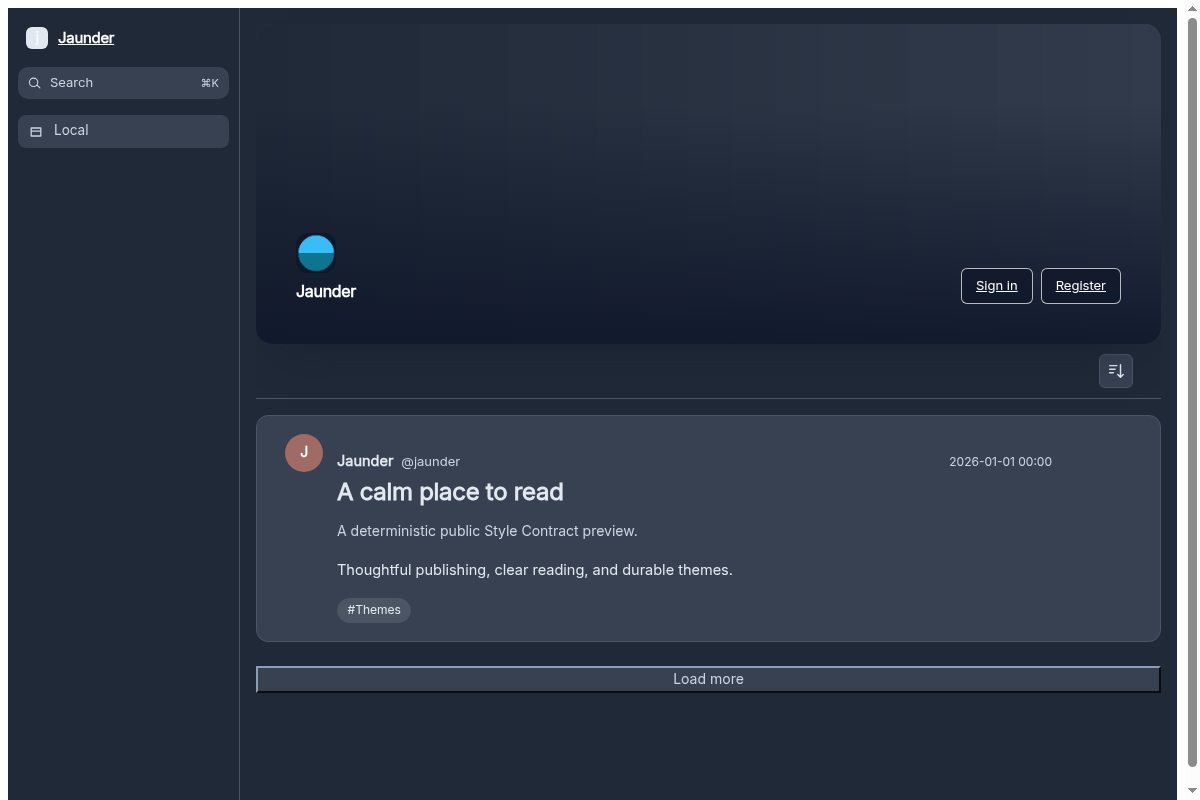
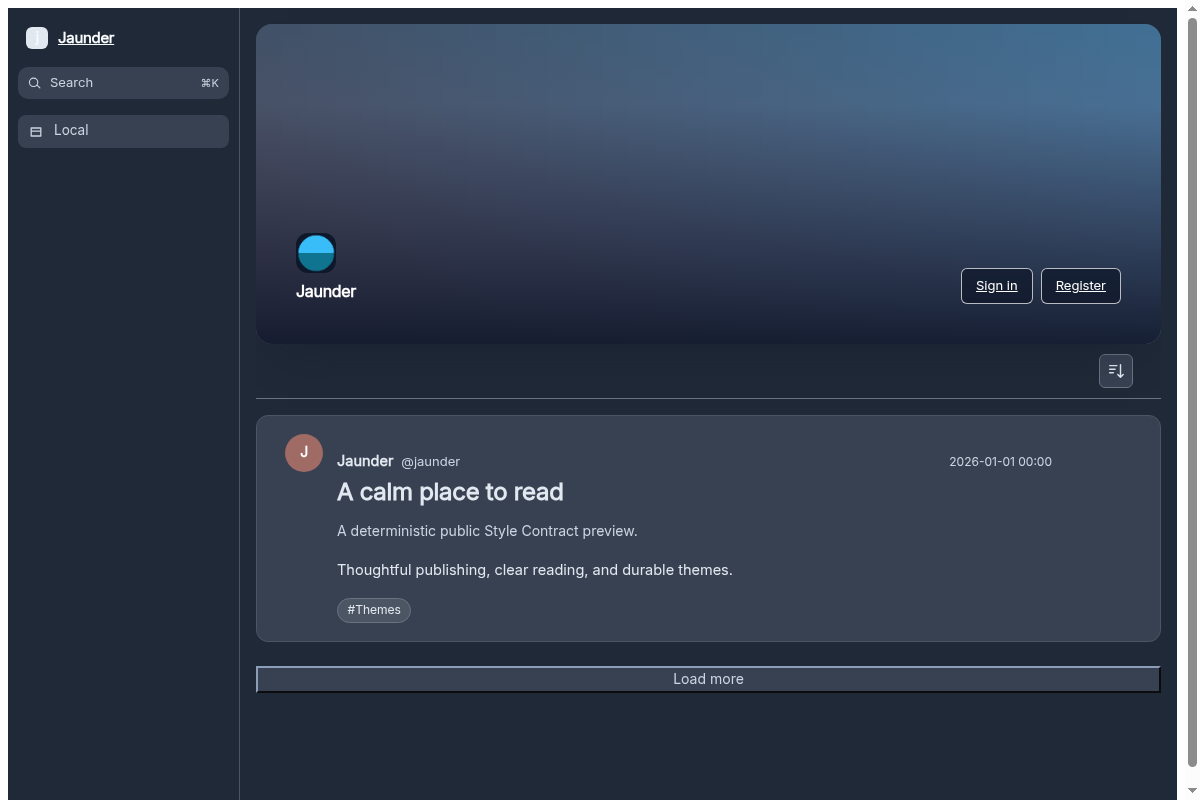
Keep dark divider contrast in gray palette

Changed region(s): [[0.2158, 0.0312, 0.9867, 0.3438]]

diff --git a/style.css b/style.css
@@ -1,1 +1,1 @@
-@font-face{font-family:Tailwind Theme Inter;src:url(assets/inter-latin-regular.woff2)format("woff2");font-weight:400;font-style:normal;font-display:swap}:root{color:#1e293b;background:#f8fafc;min-height:100%;font-family:Tailwind Theme Inter,ui-sans-serif,system-ui,sans-serif}[data-jaunder-part=author-handle]{color:#475569}[data-jaunder-part=author-name]{font-weight:600}[data-jaunder-part=avatar]{border-radius:9999px}[data-jaunder-part=continuation]{color:#334155;background:#e2e8f0;border-color:#cbd5e1}[data-jaunder-part=continuation]:hover{background:#cbd5e1;border-color:#94a3b8}[data-jaunder-part=continuation]:focus-visible{outline-offset:3px;outline:3px solid #3b82f6}[data-jaunder-part=header-image]{z-index:0;object-fit:cover;width:100%;height:100%;margin:0;position:absolute;inset:0}[data-jaunder-part=hero]{isolation:isolate;background:#374151;border-radius:1rem;min-height:clamp(14rem,30vw,20rem);display:flex;position:relative;overflow:hidden;box-shadow:0 1.5rem 3rem -2rem #0f172a99}[data-jaunder-part=logo]{border-radius:.75rem;width:2.5rem;height:2.5rem}[data-jaunder-part=main],[data-jaunder-part=main] *{font-family:Tailwind Theme Inter,ui-sans-serif,system-ui,sans-serif}[data-jaunder-part=main]{width:min(64rem,100% - 2rem);margin-inline:auto;padding-block:1rem 3rem}[data-jaunder-part=masthead]{z-index:1;width:100%;min-height:inherit;color:#fff;box-shadow:none;background:linear-gradient(#0f172a1a 25%,#0f172aeb);border:0;border-radius:0;align-items:flex-end;margin:0;padding:clamp(1rem,4vw,2.5rem);position:relative}[data-jaunder-part=masthead] *{color:inherit}[data-jaunder-part=masthead] a{background:#0f172ab8;border-color:#ffffffb3}[data-jaunder-part=masthead] :focus-visible{outline-offset:3px;outline:3px solid #3b82f6}[data-jaunder-part=navigation-rail],[data-jaunder-part=navigation-rail] *{font-family:Tailwind Theme Inter,ui-sans-serif,system-ui,sans-serif}[data-jaunder-part=navigation-rail]{color:#334155;background:#f8fafc;border-color:#cbd5e1}[data-jaunder-part=navigation-rail] *{color:inherit}[data-jaunder-part=navigation-search]{background:#e2e8f0;border-color:#cbd5e1}[data-jaunder-part=post]{overflow-wrap:anywhere;background:#fff;border:1px solid #cbd5e1;border-radius:.75rem;min-width:0;box-shadow:0 1px 3px #0f172a1a}[data-jaunder-part=post] a{color:#1e293b;text-decoration:none}[data-jaunder-part=post] a:hover{color:#0f172a}[data-jaunder-part=post] :focus-visible{outline-offset:3px;outline:3px solid #3b82f6}[data-jaunder-part=post-body]{line-height:1.75}[data-jaunder-part=post-body] a{text-underline-offset:.15em;text-decoration-line:underline;text-decoration-thickness:.125em}[data-jaunder-part=post-list]{gap:1.5rem;padding-block:1rem;display:grid}[data-jaunder-part=post-summary]{color:#334155}[data-jaunder-part=post-title]{overflow-wrap:anywhere;font-size:1.5rem;font-weight:700;line-height:1.25}[data-jaunder-part=primary-navigation]{width:auto;margin:0;padding:0}[data-jaunder-part=primary-navigation] a{color:#334155;border-radius:.5rem;text-decoration:none}[data-jaunder-part=primary-navigation] a:hover{color:#0f172a;background:#e2e8f0}[data-jaunder-part=primary-navigation] :focus-visible{outline-offset:3px;outline:3px solid #3b82f6}[data-jaunder-part=published-time]{color:#475569}[data-jaunder-part=site-brand]{color:#0f172a}[data-jaunder-part=site-title]{letter-spacing:-.025em;font-weight:700}[data-jaunder-part=source-attribution]{color:#475569}[data-jaunder-part=tag]{background:#e2e8f0;border-radius:9999px;padding:.2rem .6rem}[data-jaunder-part=tag-list]{flex-wrap:wrap;gap:.5rem;display:flex}[data-jaunder-part=tag-list] a{color:#334155;text-decoration:none}[data-jaunder-part=tag-list] a:hover{color:#1e293b}[data-jaunder-part=tag-list] :focus-visible{outline-offset:3px;outline:3px solid #3b82f6}@media (max-width:44rem){[data-jaunder-part=hero]{border-radius:.75rem;min-height:13rem}[data-jaunder-part=main]{width:min(100% - 1rem,64rem);padding-block:.5rem 2rem}[data-jaunder-part=masthead]{align-items:flex-end;gap:.75rem}}@media (prefers-reduced-motion:reduce){:root{scroll-behavior:auto}[data-jaunder-part=masthead] *,[data-jaunder-part=post] *{transition-duration:.01ms;animation-duration:.01ms;animation-iteration-count:1}}@media (prefers-color-scheme:dark){:root{--ink:#e2e8f0;--line:#4b5563;--surface-alt:#374151;color:#e2e8f0;background:#1f2937}[data-jaunder-part=author-handle]{color:#cbd5e1}[data-jaunder-part=continuation]{color:#cbd5e1;background:#374151;border-color:#4b5563}[data-jaunder-part=continuation]:hover{background:#4b5563;border-color:#6b7280}[data-jaunder-part=continuation]:focus-visible,[data-jaunder-part=masthead] :focus-visible{outline-color:#bfdbfe}[data-jaunder-part=navigation-rail]{color:#cbd5e1;background:#1f2937;border-color:#4b5563}[data-jaunder-part=navigation-search]{background:#374151;border-color:#4b5563}[data-jaunder-part=post]{box-shadow:none;background:#374151;border-color:#4b5563}[data-jaunder-part=post] a{color:#e2e8f0}[data-jaunder-part=post] a:hover{color:#fff}[data-jaunder-part=post] :focus-visible{outline-color:#bfdbfe}[data-jaunder-part=post-summary],[data-jaunder-part=primary-navigation] a{color:#cbd5e1}[data-jaunder-part=primary-navigation] a:hover{color:#fff;background:#374151}[data-jaunder-part=primary-navigation] :focus-visible{outline-color:#bfdbfe}[data-jaunder-part=published-time]{color:#cbd5e1}[data-jaunder-part=site-brand]{color:#f8fafc}[data-jaunder-part=source-attribution]{color:#cbd5e1}[data-jaunder-part=tag]{background:#4b5563}[data-jaunder-part=tag-list] a{color:#e2e8f0}[data-jaunder-part=tag-list] a:hover{color:#fff}[data-jaunder-part=tag-list] :focus-visible{outline-color:#bfdbfe}}
+@font-face{font-family:Tailwind Theme Inter;src:url(assets/inter-latin-regular.woff2)format("woff2");font-weight:400;font-style:normal;font-display:swap}:root{color:#1e293b;background:#f8fafc;min-height:100%;font-family:Tailwind Theme Inter,ui-sans-serif,system-ui,sans-serif}[data-jaunder-part=author-handle]{color:#475569}[data-jaunder-part=author-name]{font-weight:600}[data-jaunder-part=avatar]{border-radius:9999px}[data-jaunder-part=continuation]{color:#334155;background:#e2e8f0;border-color:#cbd5e1}[data-jaunder-part=continuation]:hover{background:#cbd5e1;border-color:#94a3b8}[data-jaunder-part=continuation]:focus-visible{outline-offset:3px;outline:3px solid #3b82f6}[data-jaunder-part=header-image]{z-index:0;object-fit:cover;width:100%;height:100%;margin:0;position:absolute;inset:0}[data-jaunder-part=hero]{isolation:isolate;background:#374151;border-radius:1rem;min-height:clamp(14rem,30vw,20rem);display:flex;position:relative;overflow:hidden;box-shadow:0 1.5rem 3rem -2rem #0f172a99}[data-jaunder-part=logo]{border-radius:.75rem;width:2.5rem;height:2.5rem}[data-jaunder-part=main],[data-jaunder-part=main] *{font-family:Tailwind Theme Inter,ui-sans-serif,system-ui,sans-serif}[data-jaunder-part=main]{width:min(64rem,100% - 2rem);margin-inline:auto;padding-block:1rem 3rem}[data-jaunder-part=masthead]{z-index:1;width:100%;min-height:inherit;color:#fff;box-shadow:none;background:linear-gradient(#0f172a1a 25%,#0f172aeb);border:0;border-radius:0;align-items:flex-end;margin:0;padding:clamp(1rem,4vw,2.5rem);position:relative}[data-jaunder-part=masthead] *{color:inherit}[data-jaunder-part=masthead] a{background:#0f172ab8;border-color:#ffffffb3}[data-jaunder-part=masthead] :focus-visible{outline-offset:3px;outline:3px solid #3b82f6}[data-jaunder-part=navigation-rail],[data-jaunder-part=navigation-rail] *{font-family:Tailwind Theme Inter,ui-sans-serif,system-ui,sans-serif}[data-jaunder-part=navigation-rail]{color:#334155;background:#f8fafc;border-color:#cbd5e1}[data-jaunder-part=navigation-rail] *{color:inherit}[data-jaunder-part=navigation-search]{background:#e2e8f0;border-color:#cbd5e1}[data-jaunder-part=post]{overflow-wrap:anywhere;background:#fff;border:1px solid #cbd5e1;border-radius:.75rem;min-width:0;box-shadow:0 1px 3px #0f172a1a}[data-jaunder-part=post] a{color:#1e293b;text-decoration:none}[data-jaunder-part=post] a:hover{color:#0f172a}[data-jaunder-part=post] :focus-visible{outline-offset:3px;outline:3px solid #3b82f6}[data-jaunder-part=post-body]{line-height:1.75}[data-jaunder-part=post-body] a{text-underline-offset:.15em;text-decoration-line:underline;text-decoration-thickness:.125em}[data-jaunder-part=post-list]{gap:1.5rem;padding-block:1rem;display:grid}[data-jaunder-part=post-summary]{color:#334155}[data-jaunder-part=post-title]{overflow-wrap:anywhere;font-size:1.5rem;font-weight:700;line-height:1.25}[data-jaunder-part=primary-navigation]{width:auto;margin:0;padding:0}[data-jaunder-part=primary-navigation] a{color:#334155;border-radius:.5rem;text-decoration:none}[data-jaunder-part=primary-navigation] a:hover{color:#0f172a;background:#e2e8f0}[data-jaunder-part=primary-navigation] :focus-visible{outline-offset:3px;outline:3px solid #3b82f6}[data-jaunder-part=published-time]{color:#475569}[data-jaunder-part=site-brand]{color:#0f172a}[data-jaunder-part=site-title]{letter-spacing:-.025em;font-weight:700}[data-jaunder-part=source-attribution]{color:#475569}[data-jaunder-part=tag]{background:#e2e8f0;border-radius:9999px;padding:.2rem .6rem}[data-jaunder-part=tag-list]{flex-wrap:wrap;gap:.5rem;display:flex}[data-jaunder-part=tag-list] a{color:#334155;text-decoration:none}[data-jaunder-part=tag-list] a:hover{color:#1e293b}[data-jaunder-part=tag-list] :focus-visible{outline-offset:3px;outline:3px solid #3b82f6}@media (max-width:44rem){[data-jaunder-part=hero]{border-radius:.75rem;min-height:13rem}[data-jaunder-part=main]{width:min(100% - 1rem,64rem);padding-block:.5rem 2rem}[data-jaunder-part=masthead]{align-items:flex-end;gap:.75rem}}@media (prefers-reduced-motion:reduce){:root{scroll-behavior:auto}[data-jaunder-part=masthead] *,[data-jaunder-part=post] *{transition-duration:.01ms;animation-duration:.01ms;animation-iteration-count:1}}@media (prefers-color-scheme:dark){:root{--ink:#e2e8f0;--line:#6b7280;--surface-alt:#374151;color:#e2e8f0;background:#1f2937}[data-jaunder-part=author-handle]{color:#cbd5e1}[data-jaunder-part=continuation]{color:#cbd5e1;background:#374151;border-color:#4b5563}[data-jaunder-part=continuation]:hover{background:#4b5563;border-color:#6b7280}[data-jaunder-part=continuation]:focus-visible,[data-jaunder-part=masthead] :focus-visible{outline-color:#bfdbfe}[data-jaunder-part=navigation-rail]{color:#cbd5e1;background:#1f2937;border-color:#4b5563}[data-jaunder-part=navigation-search]{background:#374151;border-color:#4b5563}[data-jaunder-part=post]{box-shadow:none;background:#374151;border-color:#4b5563}[data-jaunder-part=post] a{color:#e2e8f0}[data-jaunder-part=post] a:hover{color:#fff}[data-jaunder-part=post] :focus-visible{outline-color:#bfdbfe}[data-jaunder-part=post-summary],[data-jaunder-part=primary-navigation] a{color:#cbd5e1}[data-jaunder-part=primary-navigation] a:hover{color:#fff;background:#374151}[data-jaunder-part=primary-navigation] :focus-visible{outline-color:#bfdbfe}[data-jaunder-part=published-time]{color:#cbd5e1}[data-jaunder-part=site-brand]{color:#f8fafc}[data-jaunder-part=source-attribution]{color:#cbd5e1}[data-jaunder-part=tag]{background:#4b5563}[data-jaunder-part=tag-list] a{color:#e2e8f0}[data-jaunder-part=tag-list] a:hover{color:#fff}[data-jaunder-part=tag-list] :focus-visible{outline-color:#bfdbfe}}

diff --git a/src/theme.css b/src/theme.css
@@ -323,7 +323,7 @@
      * descendants that have no separate Style Contract hook (for example,
      * active navigation items and sanitized Post-body headings). */
     --ink: #e2e8f0;
-    --line: #4b5563;
+    --line: #6b7280;
     --surface-alt: #374151;
     color: #e2e8f0;
     background: #1f2937;
